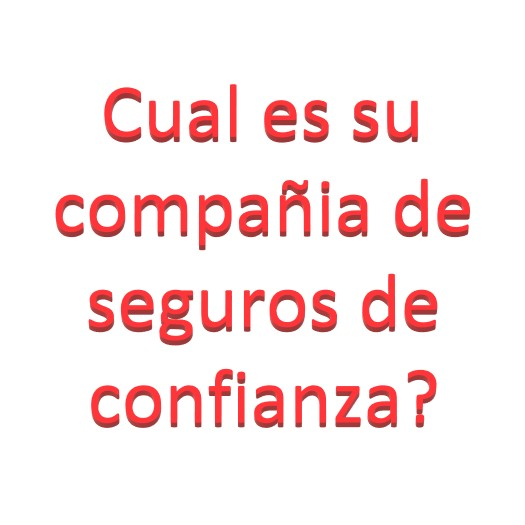
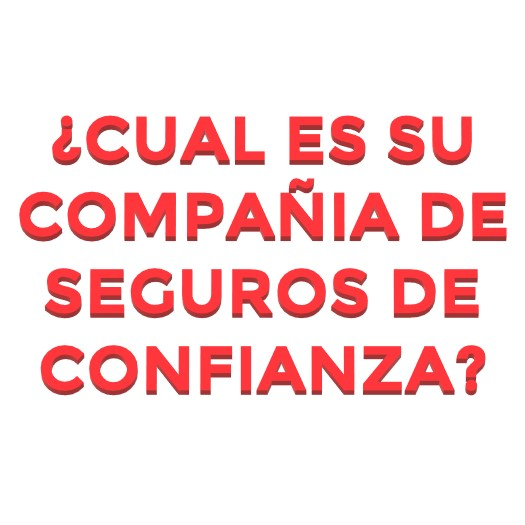
Cambio tipografia a MONSERRAT

Changed region(s): [[0.061, 0.4876, 0.9448, 0.8229], [0.0305, 0.1524, 0.9752, 0.4876]]

diff --git a/index.html b/index.html
@@ -1,4 +1,5 @@
 <!DOCTYPE html><html lang="en"><head>
+  <link href='https://fonts.googleapis.com/css?family=Montserrat' rel='stylesheet'>
   <meta charset="UTF-8">
   <title>Juego de preguntas</title>
   <script src="https://cdn.jsdelivr.net/npm/sweetalert2@11.3.0/dist/sweetalert2.all.min.js"></script>
@@ -15,11 +16,12 @@
       padding: 0;
       margin: 0;
       text-align: center;
-      font-family: calibri;
+      font-family: 'Montserrat';
       font-size: 120%;
     }
 
     .logolps{
+      padding: 20px;
       height: 10vh;
     }
 
@@ -96,7 +98,7 @@
   </style>
   <div class="contenedor-1">
     <img src="assert/LPS-Website-lps-iso.svg" class="logolps" id="logolps">
-    <h1 class="text-center">Jugá con La Perseverancia Seguros</h1>
+    <h1 class="text-center">    JUGA CON LA PERSEVERANCIA SEGUROS  </h1>
     <img src="assert/LPS-Website-lps-iso.svg" class="logolps" id="logolps">
   </div>
 
